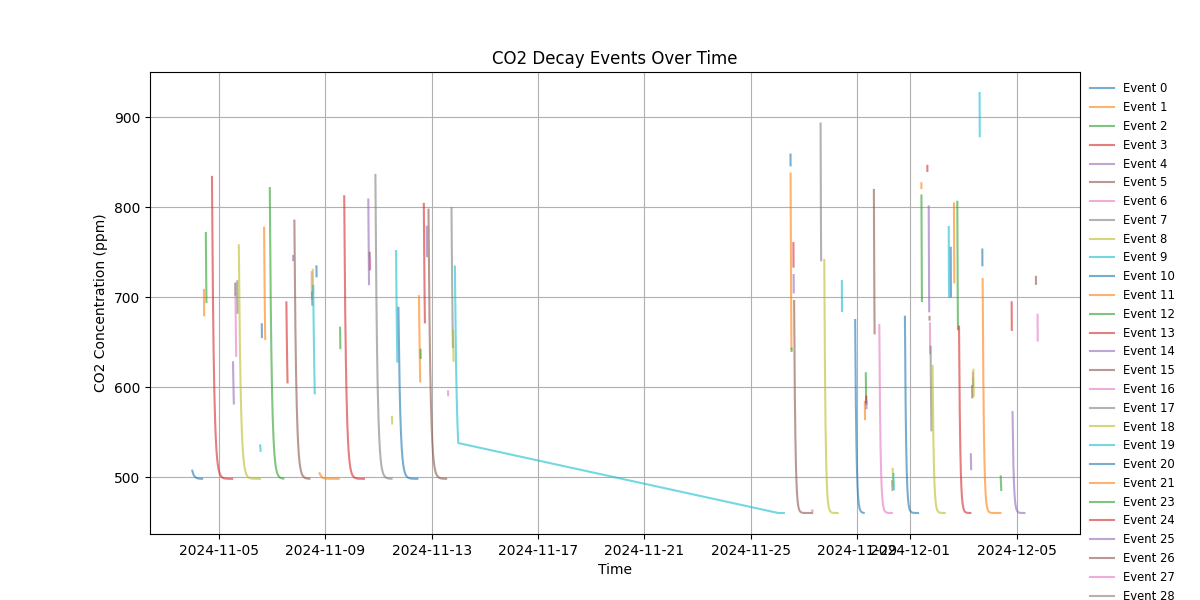
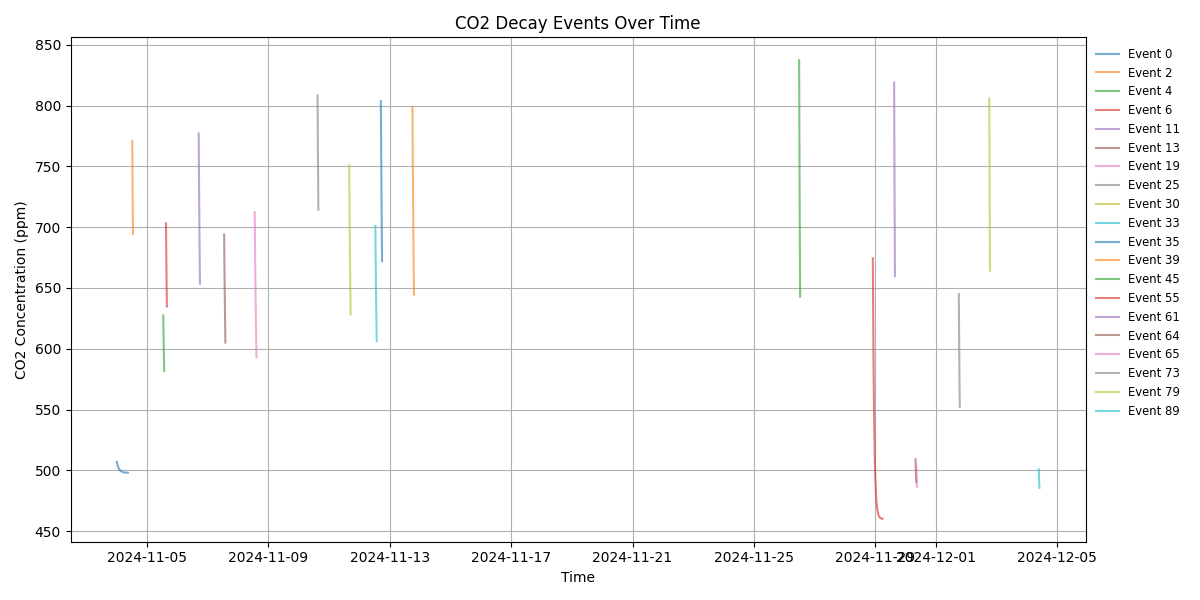
Adding max decay

diff --git a/decay-realtime/decay_clustering.py b/decay-realtime/decay_clustering.py
@@ -30,32 +30,53 @@ def process_co2_decay_events(file_path):
 
     # Calculate duration of each event
     event_summary["duration_minutes"] = (event_summary["end_time"] - event_summary["start_time"]).dt.total_seconds() / 60
-    # Compute CO₂ trend
-    event_summary["co2_trend"] = decay_events.groupby("event_id")["co2"].diff().mean()
 
-    # Apply conditions: CO2 decay and duration > 30 min
-    filtered_events = event_summary[
-        (event_summary["start_co2"] > event_summary["end_co2"]) & (event_summary["duration_minutes"] > 30)
-    ]
+
+   # **Step 1: Split long decay events into segments of 120 minutes**
+    min_duration = 30   # Minimum required event duration
+    max_duration = 120  # Maximum allowed decay duration
+
+    # Create a new 'segment_id' column based on time window of 120 minutes
+    decay_events["time_offset"] = (decay_events["date"] - decay_events.groupby("event_id")["date"].transform("min")).dt.total_seconds() / 60
+    decay_events["segment_id"] = (decay_events["time_offset"] // max_duration).astype(int)
+
+    # Aggregate again but with segment-wise breakdown
+    segmented_summary = decay_events.groupby(["event_id", "segment_id"]).agg(
+        start_time=("date", "first"),
+        end_time=("date", "last"),
+        start_co2=("co2", "first"),
+        end_co2=("co2", "last"),
+        min_co2=("co2", "min")
+    )
+        # Compute CO₂ trend
+    segmented_summary["co2_trend"] = decay_events.groupby(["event_id", "segment_id"])["co2"].diff().mean()
+
+    # **Step 2: Calculate segment duration**
+    segmented_summary["duration_minutes"] = (segmented_summary["end_time"] - segmented_summary["start_time"]).dt.total_seconds() / 60
+
     # Define a threshold to exclude fake decay events
-    threshold_factor = 1.4  # Allows a 40% increase from min_co2 but rejects anything higher
+    threshold_factor = 1.1  # Allows a 40% increase from min_co2 but rejects anything higher
     
     # Apply updated decay event conditions (Monotonicity in Decay)
-    filtered_events = event_summary[
-        (event_summary["start_co2"] > event_summary["end_co2"]) &  # Ensuring initial CO2 is higher than final
-        (event_summary["min_co2"] < event_summary["start_co2"]) &  # Ensuring real decay occurred
-        (event_summary["end_co2"] < threshold_factor * event_summary["min_co2"]) &  # Avoid cases where end CO2 rises too much
-        (event_summary["co2_trend"] < 0)
+    filtered_segments = segmented_summary[
+        (segmented_summary["start_co2"] > segmented_summary["end_co2"]) &  # Ensuring initial CO2 is higher than final
+        (segmented_summary["min_co2"] < segmented_summary["start_co2"]) &  # Ensuring real decay occurred
+        (segmented_summary["end_co2"] < threshold_factor * segmented_summary["min_co2"]) &  # Avoid cases where end CO2 rises too much
+        (segmented_summary["co2_trend"] < 0) &  # Ensuring CO2 trend is negative (decay)
+        (segmented_summary["duration_minutes"] >= min_duration) &  # Ensuring min duration of 30 min
+        (segmented_summary["duration_minutes"] <= max_duration)  # Enforce max duration of 120 min
+
     ]
     
-
+    # Assign new segment-based event IDs
+    filtered_segments["new_event_id"] = filtered_segments.index.map(lambda x: f"{x[0]}_{x[1]}")
     # Create a new column 'presence_analysis'
     df["presence_analysis"] = df["presence"].astype(object)
     #df.loc[(df["presence"] == False) & (~df["event_id"].isin(filtered_events.index)), "presence_analysis"] = True
-    df.loc[(df["presence"] == False) & (~df["event_id"].isin(filtered_events.index)), "presence_analysis"] = "Ignore"
+    df.loc[(df["presence"] == False) & (~df["event_id"].isin(filtered_segments.index.get_level_values(0))), "presence_analysis"] = "Ignore"
     
-    
-    return df, filtered_events
+    print(filtered_segments.head(100))
+    return df, filtered_segments
 
 # Clustering function
 def cluster_co2_decay_events(filtered_events, n_clusters=3):
@@ -89,11 +110,38 @@ def calculate_decay_constant(filtered_events):
     filtered_events["decay_constant"] = -np.log(filtered_events["end_co2"] / filtered_events["start_co2"]) / filtered_events["duration_minutes"]
     return filtered_events
 
-def calculate_decay_constants(df, filtered_events):
-    df = df.merge(filtered_events[["start_time", "end_time", "start_co2", "end_co2", "cluster"]],
-                  left_on="event_id", right_index=True, how="left")
+def calculate_decay_constants(df, filtered_segments):
+    filtered_segments = filtered_segments.reset_index()
 
-    df["measurement_decay_constant"] = -np.log(df["co2"] / df["start_co2"]) / ((df["date"] - df["start_time"]).dt.total_seconds() / 60)
+    # Verify that 'event_id' and 'segment_id' exist
+    if "event_id" not in df.columns:
+        raise KeyError("Missing 'event_id' in df.")
+    
+    if "event_id" not in filtered_segments.columns or "segment_id" not in filtered_segments.columns:
+        raise KeyError("Missing 'event_id' or 'segment_id' in filtered_segments.")
+
+    df["event_id"] = df["event_id"].fillna(-1).astype("Int64")  # Use Int64 to allow NaN values
+    filtered_segments["event_id"] = filtered_segments["event_id"].fillna(-1).astype("Int64")
+
+    # Ensure df has a 'segment_id' column by recalculating it
+    if "segment_id" not in df.columns:
+        df["time_offset"] = (df["date"] - df.groupby("event_id")["date"].transform("min")).dt.total_seconds() / 60
+        max_duration = 120  # Maximum allowed duration per segment
+        df["segment_id"] = (df["time_offset"] // max_duration).astype(int)
+    
+    # Merge based on both 'event_id' and 'segment_id'
+    df = df.merge(
+        filtered_segments[["event_id", "segment_id", "start_time", "end_time", "start_co2", "end_co2"]],
+        on=["event_id", "segment_id"],  
+        how="left"
+    )
+
+    time_diff = (df["date"] - df["start_time"]).dt.total_seconds() / 60  # Convert time difference to minutes
+    df["measurement_decay_constant"] = np.where(
+        (df["co2"] > 0) & (df["start_co2"] > 0) & (time_diff > 0), 
+        -np.log(df["co2"] / df["start_co2"]) / time_diff,  
+        np.nan  # Assign NaN if values are invalid
+    )
     return df
 
 def plot_co2_decay_events(df):

diff --git a/decay-simulated/decay_clustering.py b/decay-simulated/decay_clustering.py
@@ -1,6 +1,6 @@
 from pyspark.ml.clustering import KMeans
 from pyspark.ml.feature import VectorAssembler
-from pyspark.sql.functions import col, log,trim, unix_timestamp, lag, when, count, sum as ps_sum, first, last, min as ps_min, max as ps_max, avg, lit, round as ps_round
+from pyspark.sql.functions import concat_ws,col, log,trim, unix_timestamp, lag, when, count, sum as ps_sum, first, last, min as ps_min, max as ps_max, avg, lit, round as ps_round
 from pyspark.sql import SparkSession, Window
 import pandas as pd
 import matplotlib.pyplot as plt
@@ -84,27 +84,60 @@ def process_co2_decay_events(df):
         "duration_minutes",
         (unix_timestamp(trim(col("end_time")), "MM/dd  HH:mm:ss") - unix_timestamp(trim(col("start_time")), "MM/dd  HH:mm:ss")) / 60
     )
+    min_duration = 30 
+    # **Step 1: Split long decay events into segments of 120 minutes**
+    max_duration = 600  # Maximum allowed decay duration in minutes
+
+    # Create a new column to track segment IDs based on 120-minute intervals
+    decay_events = decay_events.withColumn(
+        "segment_id",
+        (unix_timestamp(col("Datetime")) / (max_duration * 60)).cast("int")
+    )
+
+    # Recalculate event summaries but now considering these segments
+    segmented_summary = decay_events.groupBy("event_id", "segment_id").agg(
+        first("Datetime").alias("start_time"),
+        last("Datetime").alias("end_time"),
+        first("Zone Air CO2 Concentration").alias("start_co2"),
+        last("Zone Air CO2 Concentration").alias("end_co2"),
+        ps_min("Zone Air CO2 Concentration").alias("min_co2"),
+        avg("co2_diff").alias("co2_trend")
+    )
+
+    segmented_summary = segmented_summary.withColumn(
+        "duration_minutes",
+        (unix_timestamp(trim(col("end_time")), "MM/dd  HH:mm:ss") - unix_timestamp(trim(col("start_time")), "MM/dd  HH:mm:ss")) / 60
+    )
     
-   # event_summary["co2_trend"] = decay_events.groupby("event_id")["Zone Air CO2 Concentration"].diff().mean()
-    #event_summary.show(10)
-    # Apply filtering conditions
+    # Apply the same decay filters as before
     threshold_factor = 1.4  # Allows a 20% increase from min_co2 but rejects anything higher
-    filtered_events = event_summary.filter(
+    filtered_segments = segmented_summary.filter(
         (col("start_co2") > col("end_co2")) &  # Ensuring initial CO2 is higher than final
         (col("min_co2") < col("start_co2")) &  # Ensuring real decay occurred
         (col("end_co2") < threshold_factor * col("min_co2")) &  # Avoid fake decays
-        (col("co2_trend") < 0)  # Ensuring CO2 trend is negative (decay)
+        (col("co2_trend") < 0) & # Ensuring CO2 trend is negative (decay)
+        (col("duration_minutes") >= min_duration) &
+        (col("duration_minutes") <= max_duration)
+    )
+
+    # **Step 2: Ensure Continuous Decay is Maintained**
+    # Assign new segment-based event IDs
+    filtered_segments = filtered_segments.withColumn(
+        "new_event_id", concat_ws("_", col("event_id"), col("segment_id"))
     )
 
     # Assign "Ignore" to non-matching presence states
     df = df.withColumn("presence_analysis", col("BinaryOccupancy").cast("string"))
     df = df.withColumn(
         "presence_analysis",
-        when((col("BinaryOccupancy") == 0) & (~col("event_id").isin([row["event_id"] for row in filtered_events.collect()])), "Ignore")
-        .otherwise(col("presence_analysis"))
+        when(
+            (col("BinaryOccupancy") == 0) & (~col("event_id").isin([row["event_id"] for row in filtered_segments.collect()])), 
+            "Ignore"
+        ).otherwise(col("presence_analysis"))
     )
+    print(filtered_segments.show(10))
 
-    return df, filtered_events
+    return df, filtered_segments
 
 # Clustering function
 def cluster_co2_decay_events(filtered_events, n_clusters=3):

diff --git a/decay-simulated/co2_entropy.py b/decay-simulated/co2_entropy.py
@@ -41,7 +41,7 @@ def process_co2_entropy(csv_file):
 
 
 def process_co2_entropy_by_day(csv_file,day):
-    """Reads a CSV file, filters data for 01/02/2025, and calculates entropy over time."""
+    """Reads a CSV file, filters data for 13/11/2024, and calculates entropy over time."""
     df = pd.read_csv(csv_file, delimiter=';')
     
     # Convert date column to datetime
@@ -49,7 +49,7 @@ def process_co2_entropy_by_day(csv_file,day):
     #df['Datetime'] = pd.to_datetime(df['Datetime'])
     df['presence_analysis'] = df['presence_analysis']
     
-    # Filter data only for 01/02/2025
+    # Filter data only for 13/11/2024
     target_date = day
     #df = df[df['Datetime'].dt.date == pd.to_datetime(target_date).date()]
     df = df.loc[
@@ -95,6 +95,6 @@ if __name__ == "__main__":
     print("Shannon Entropy of CO₂ levels:")
     print(f"presence_analysis=True: {entropy_values.get('1', 'No data')}")
     print(f"presence_analysis=False: {entropy_values.get('0', 'No data')}")
-    timestamps, entropy_values_plot = process_co2_entropy_by_day(csv_file,"12/02")
+    timestamps, entropy_values_plot = process_co2_entropy_by_day(csv_file,"11/13")
     plot_entropy(timestamps, entropy_values_plot)
     
